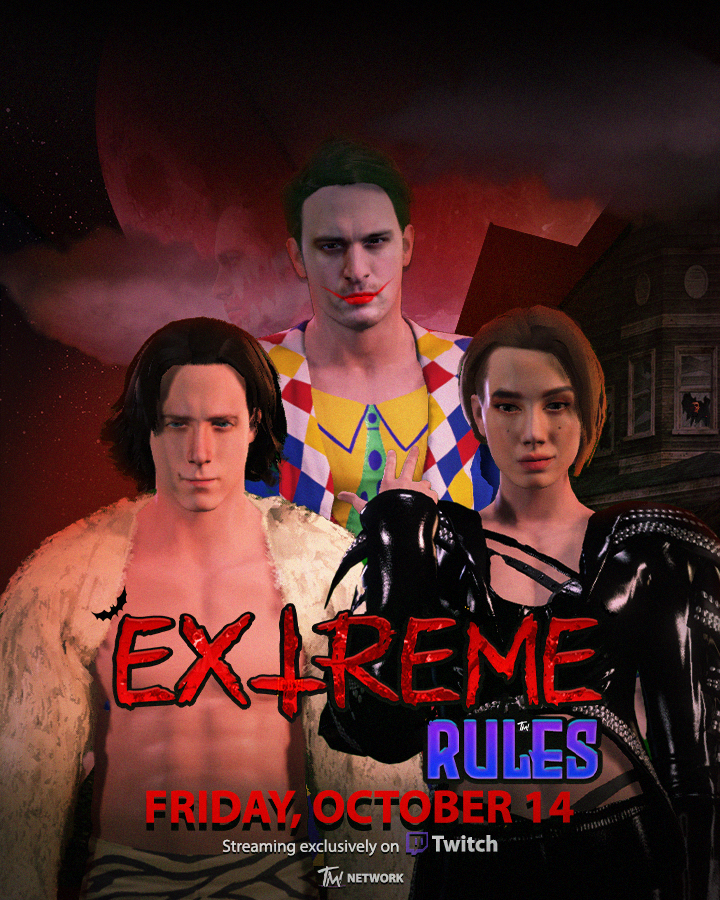
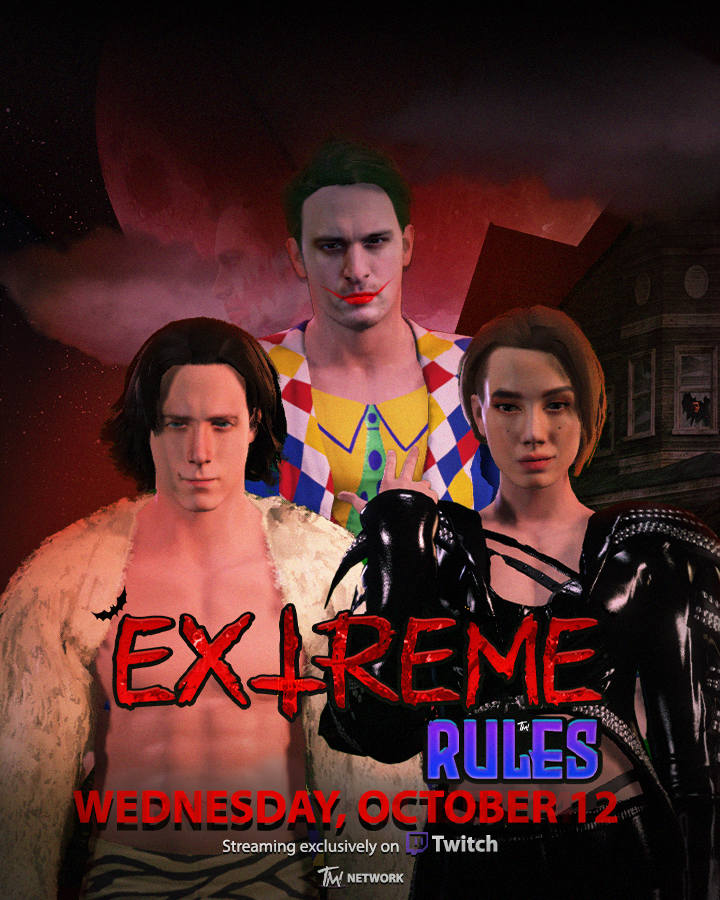
upd

Changed region(s): [[0.0917, 0.84, 0.8556, 0.9333]]

diff --git a/index.html b/index.html
@@ -39,7 +39,7 @@ $(function(){
 
 <div class="container text-center">
 <div class="col">
-<h1 style="padding-top:40px;">This Friday </h1>
+<h1 style="padding-top:40px;">This Wednesday </h1>
             <img style="margin-top:30px;  margin-left: auto;
   margin-right: auto;"class="img-fluid" src="images/PPV/EXTREMERULES.jpg">
   </div>
